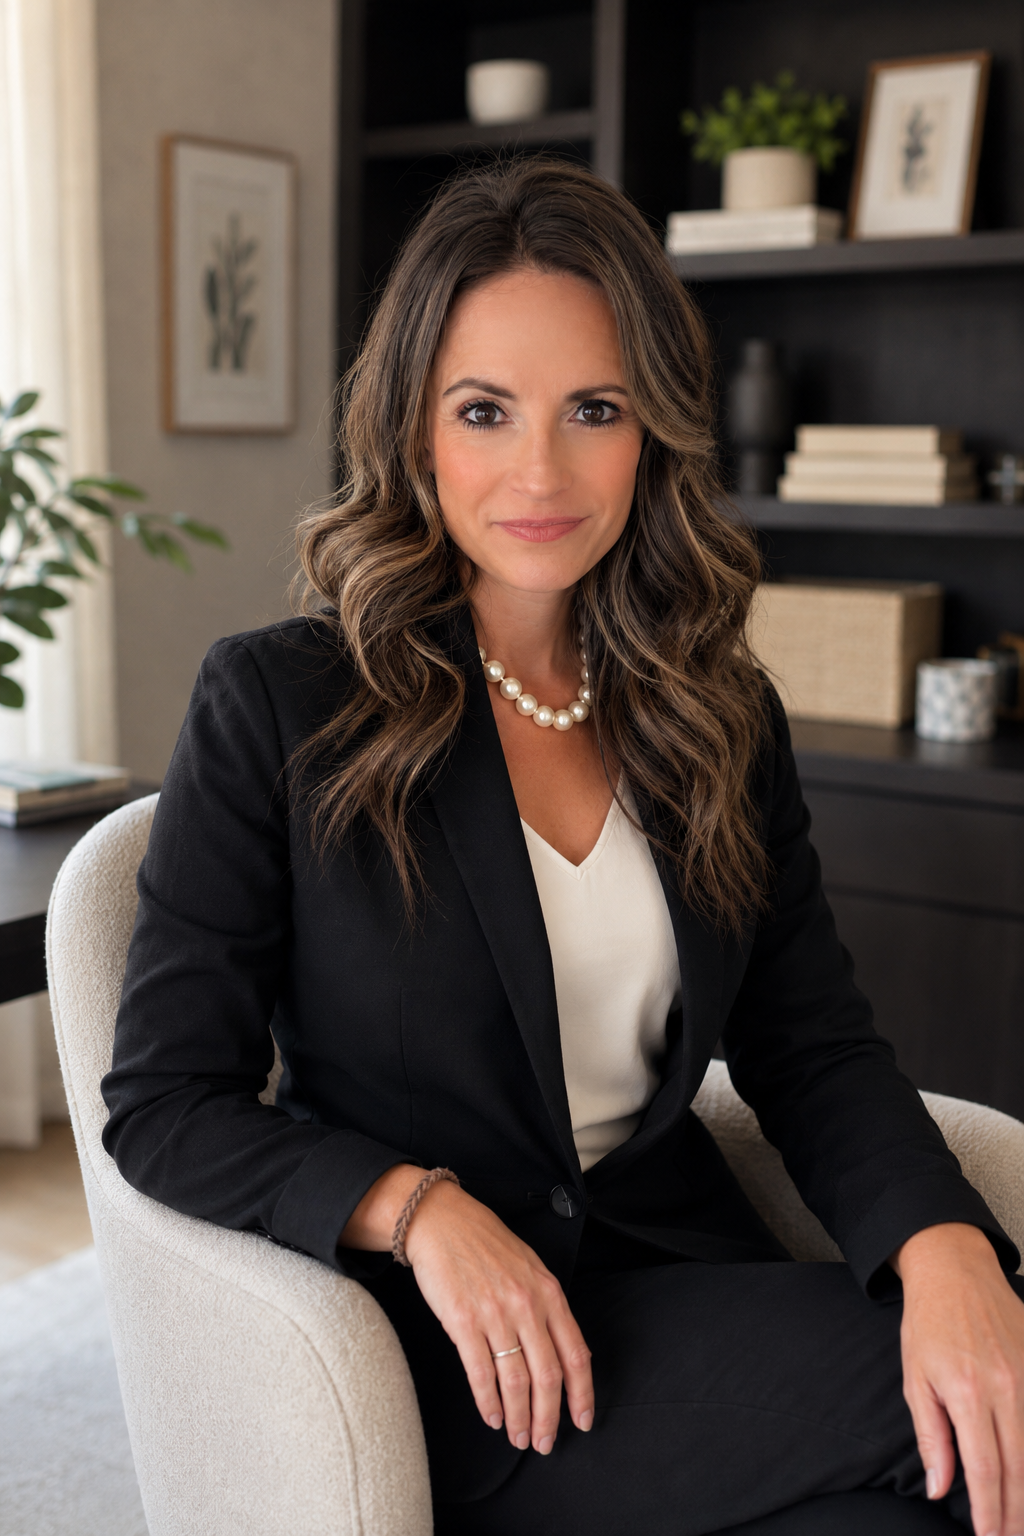
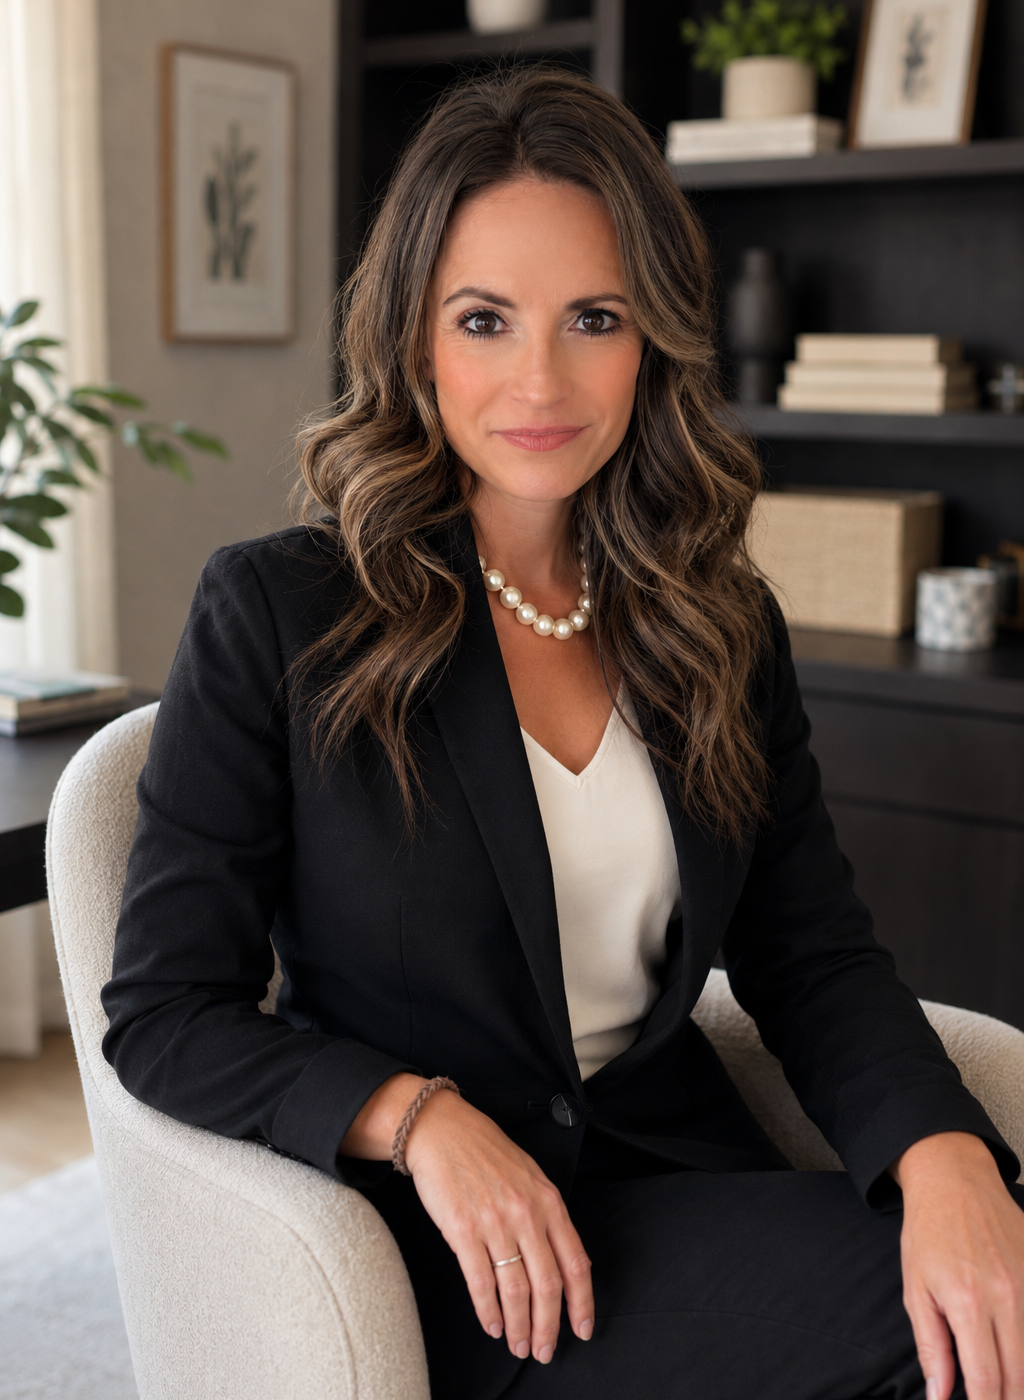
Updated Homepage Layout and Added Image

diff --git a/index.html b/index.html
@@ -115,6 +115,11 @@
       font-family: 'Arial', sans-serif; font-weight: 600; font-size: 0.9rem;
       transition: background 0.2s;
     }
+    .bio-photo-placeholder {
+      background: var(--purple-light); border-radius: 10px;
+      aspect-ratio: 3/4; display: flex; align-items: center; justify-content: center;
+      overflow: hidden;
+    }
     .btn-purple:hover { background: var(--purple-dark); }
     .about-highlights { display: flex; flex-direction: column; gap: 16px; }
     .highlight-item {
@@ -181,7 +186,7 @@
   <!-- HERO -->
   <section class="hero">
     <div class="hero-eyebrow">Content Marketing Strategy Consulting</div>
-    <h1>Consulting That Turns <span style="font-weight:300 !important"><em>Complexity</em></span> Into Clarity</h1>
+    <h1>Consulting That Turns <span style="font-weight:300 !important"><em>Complexity</em></span> Into <span style="font-weight:300 !important"><em>Clarity</em></span></h1>
     <p class="hero-sub">I help craft narratives for B2B, technology, health, and mission-driven brands that move markets.</p>
     <a href="contact.html" class="btn-primary">Work With Me</a>
     <a href="selected-work.html" class="btn-outline">See My Work</a>
@@ -189,15 +194,20 @@
 
   <!-- ABOUT TEASER -->
   <section class="about-teaser">
+    <div class="section-inner">
+      <div class="section-label">About Jessica</div>
+      <h2>Strategic Thinking. Human-Centered Communication.</h2>
+      <p>&nbsp;</p>
+    </div>
     <div class="about-teaser-inner">
-      <div class="about-text">
-        <div class="section-label">About Jessica</div>
-        <h2>Strategic Thinking. Human-Centered Communication.</h2>
-        <p>I'm a communications and marketing consultant with deep experience across publishing, nonprofit, and professional services sectors. I help organizations find the words — and the strategy — to move people.</p>
-        <p>My approach is collaborative, rigorous, and grounded in what actually works: clear thinking, honest messaging, and creative execution.</p>
-        <a href="about.html" class="btn-purple">Learn More About Me</a>
+      <div class="bio-photo-placeholder">
+        <img src="/images/Jess_3.png" width="480" alt="Jess Marabella">
       </div>
       <div class="about-highlights">
+        <div class="about-text">
+          <p>I'm a communications and marketing consultant with deep experience across publishing, nonprofit, and professional services sectors. I help organizations find the words, and the strategy, to move people.</p>
+          <p>My approach is collaborative, rigorous, and grounded in what actually works: clear thinking, honest messaging, and creative execution.</p>
+        </div>
         <div class="highlight-item">
           <strong>Publishing &amp; Media</strong>
           <span>PR campaigns, author launches, and award-winning book marketing</span>
@@ -214,6 +224,7 @@
           <strong>Startups &amp; Growth Stage</strong>
           <span>Go-to-market strategy and communications infrastructure built to scale</span>
         </div>
+        <div style="padding-top: 20px;"><a href="about.html" class="btn-purple">Learn More About Jessica</a></div>     
       </div>
     </div>
   </section>

diff --git a/about.html b/about.html
@@ -57,7 +57,7 @@
     .bio-section { background: var(--white); }
     .bio-inner { max-width: 1000px; margin: 0 auto; display: grid; grid-template-columns: 1fr 2fr; gap: 56px; align-items: start; }
     .bio-photo-placeholder {
-      background: var(--purple-light); border-radius: 10px;
+      background: var(--gray-bg); border-radius: 10px;
       aspect-ratio: 3/4; display: flex; align-items: center; justify-content: center;
       color: var(--purple); font-family: 'Arial', sans-serif; font-size: 0.85rem; text-align: center;
       padding: 20px;